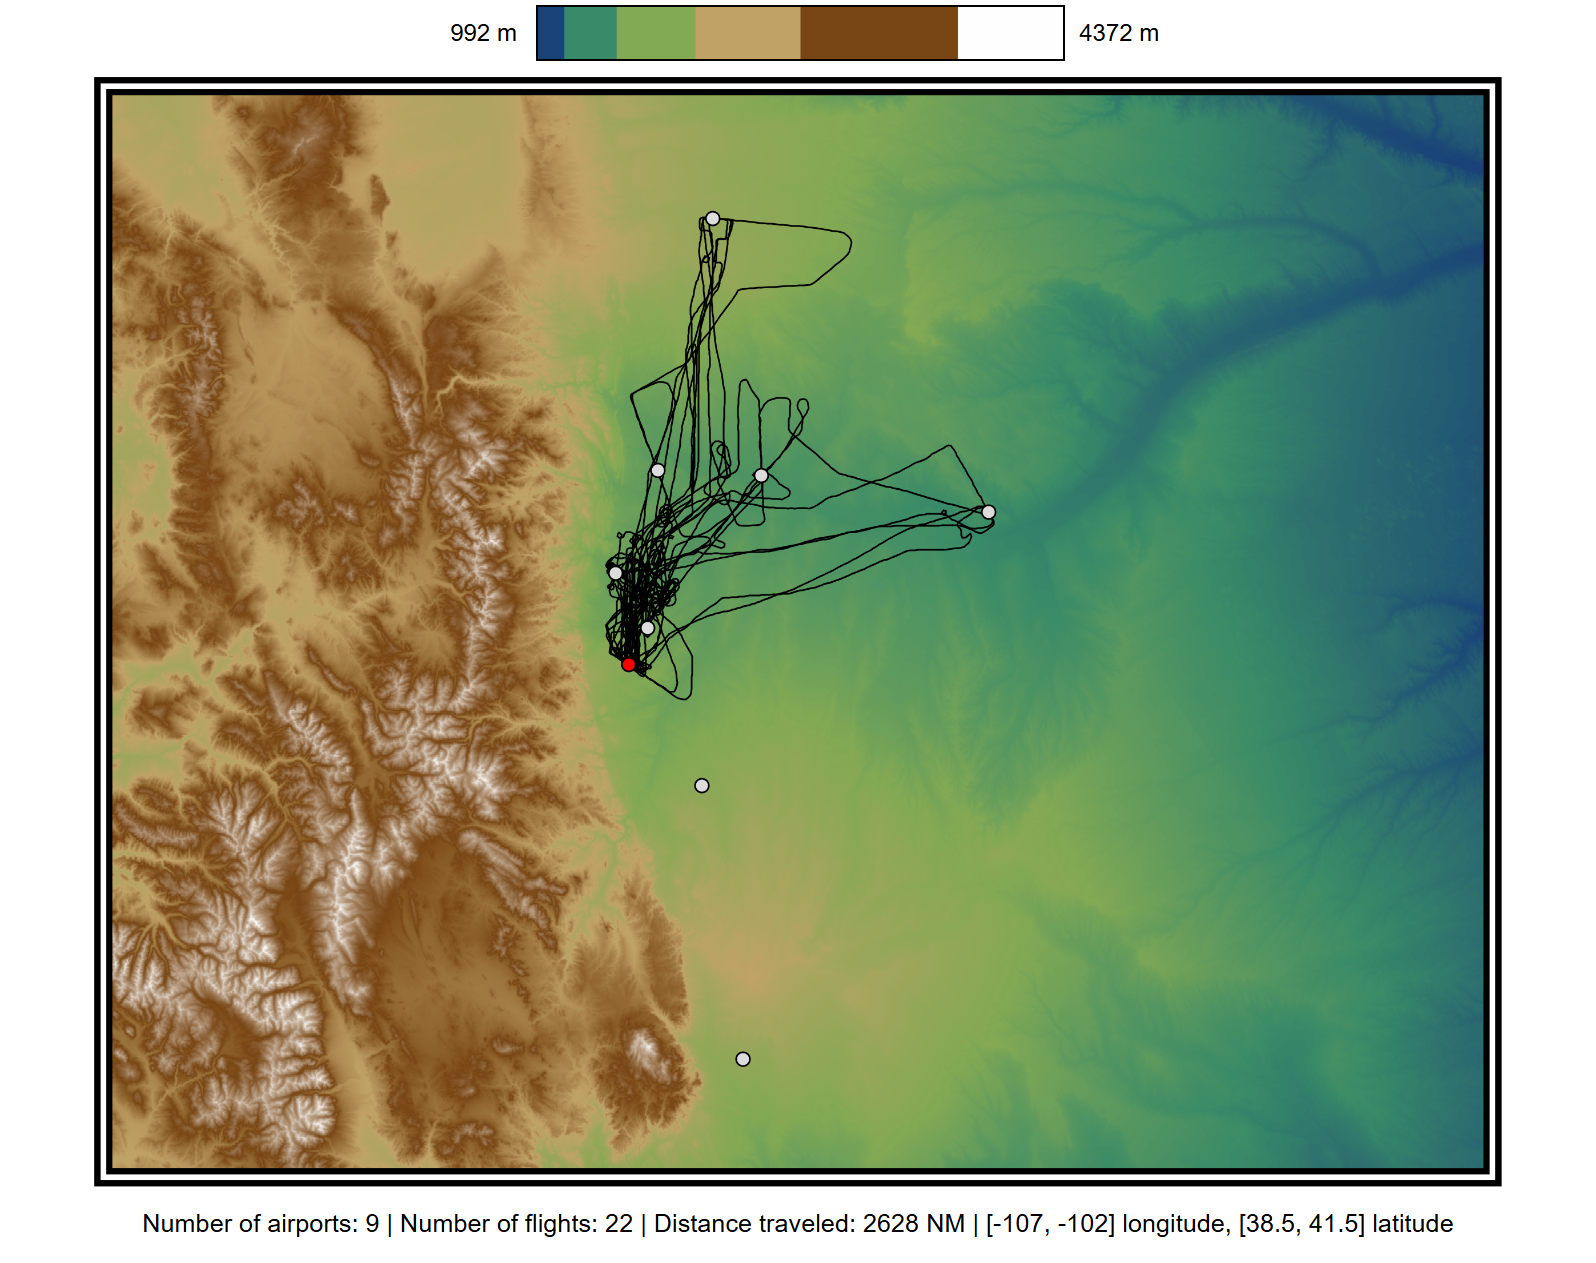
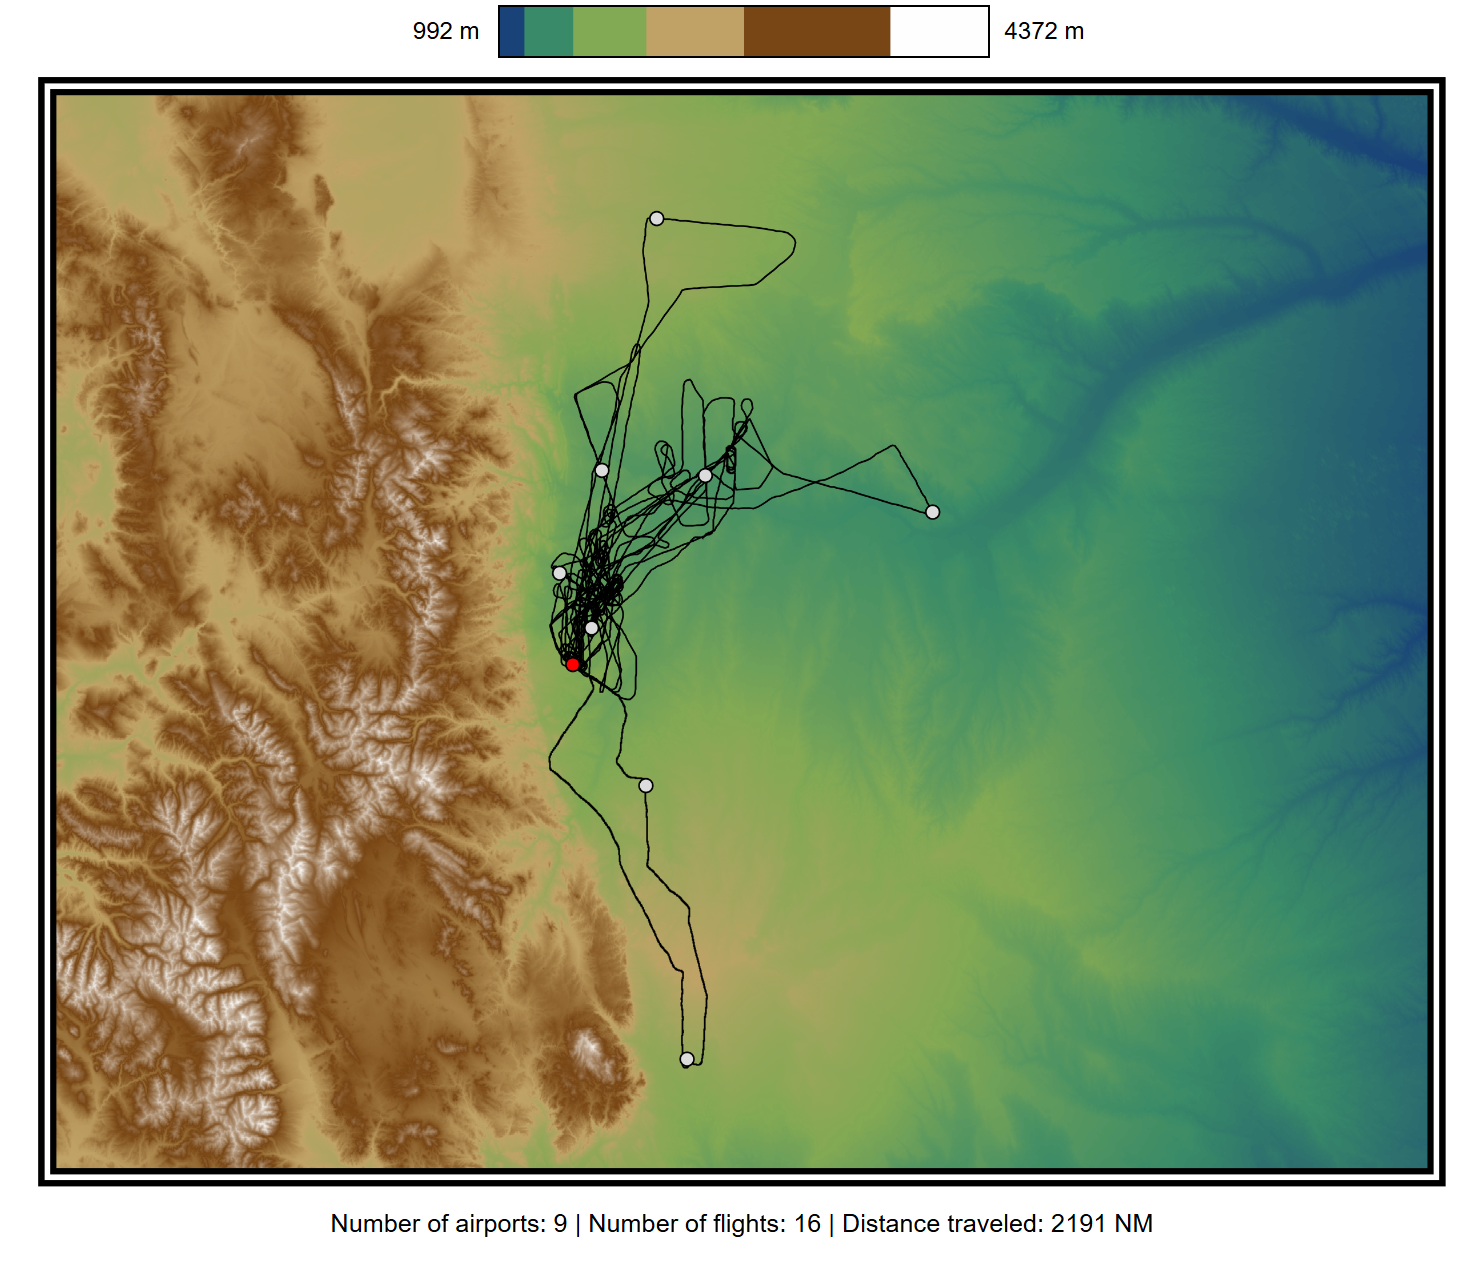
added ADS-B Exchange and ForeFlight files

diff --git a/_unfinished/flight-tracks/test.html b/_unfinished/flight-tracks/test.html
@@ -101,64 +101,75 @@
 	plot.height = height * parallel_scale;
 	const ctx = plot.getContext('2d');
 
-	let fnames = [
-		'01-Mar-2025 (KBJC-KBJC) - FlightAware.webarchive',
-		'03-May-2025 (KBJC-KBJC) - FlightAware.webarchive',
-		'04-Jul-2025 (KBJC-KBJC) - FlightAware.webarchive',
-		'04-Jun-2025 (KBJC-KBJC) - FlightAware.webarchive',
-		'05-Mar-2025 (KBJC-KBJC) - FlightAware.webarchive',
-		'06-Jun-2025 (KBJC-KBJC) - FlightAware.webarchive',
-		'07-Dec-2024 (KBJC-KBJC) - FlightAware.webarchive',
-		'07-Jun-2025 (KBJC-KBJC) - FlightAware.webarchive',
-		'08-Jan-2025 (KBJC-KBJC) - FlightAware.webarchive',
-		'08-Jun-2025 (KBJC-KBJC) - FlightAware.webarchive',
-		'08-Mar-2025 (KBJC-KBJC) - FlightAware.webarchive',
-		'08-May-2025 (KBJC-KBJC) - FlightAware.webarchive',
-		'09-Jul-2025 (KBJC-KBJC) - FlightAware.webarchive',
-		'10-May-2025 (KBJC-KFMM) - FlightAware.webarchive',
-		'10-May-2025 (KFMM-KBJC) - FlightAware.webarchive',
-		'11-Mar-2025 (KBJC-KBJC) - FlightAware.webarchive',
-		'13-Jul-2025 (KBJC-KBJC) - FlightAware.webarchive',
-		'19-Jun-2025 (KBJC-KBJC) - FlightAware.webarchive',
-		'23-Sep-2024 (KBJC-KBJC) - FlightAware.webarchive',
-		'27-Oct-2024 (KBJC-KBJC) - FlightAware.webarchive',
-		'28-Sep-2024 (KBJC-KBJC) - FlightAware.webarchive',
-		'29-May-2025 (KBJC-KBJC) - FlightAware.webarchive',
+	let fnames = [  // instructor: Sercan Gündoğdu, 16 flights, 30.4 hrs, 25 instrument approaches
+		'FlightAware/03-May-2025 (KBJC-KBJC) - FlightAware.webarchive',
+		'FlightAware/08-May-2025 (KBJC-KBJC) - FlightAware.webarchive',
+		'FlightAware/10-May-2025 (KBJC-KFMM) - FlightAware.webarchive',
+		'FlightAware/10-May-2025 (KFMM-KBJC) - FlightAware.webarchive',
+		'ADS-B Exchange/11-May-2025_N52160-track-EGM96.kml',
+		'FlightAware/29-May-2025 (KBJC-KBJC) - FlightAware.webarchive',
+		'FlightAware/04-Jun-2025 (KBJC-KBJC) - FlightAware.webarchive',
+		'FlightAware/06-Jun-2025 (KBJC-KBJC) - FlightAware.webarchive',
+		'FlightAware/07-Jun-2025 (KBJC-KBJC) - FlightAware.webarchive',
+		'FlightAware/08-Jun-2025 (KBJC-KBJC) - FlightAware.webarchive',
+		'ADS-B Exchange/18-Jun-2025_N736QG-track-EGM96.kml',
+		'FlightAware/19-Jun-2025 (KBJC-KBJC) - FlightAware.webarchive',
+		'FlightAware/04-Jul-2025 (KBJC-KBJC) - FlightAware.webarchive',
+		'ForeFlight/TrackLog_1E4D73CC-79A7-411F-8EE6-74FEA9598F3A.kml',  // 06-Jul-2025
+		'FlightAware/09-Jul-2025 (KBJC-KBJC) - FlightAware.webarchive',
+		'FlightAware/06-Aug-2025 (KBJC-KBJC) - FlightAware.webarchive',
+		'FlightAware/06-Aug-2025 (KBJC-KBJC) - FlightAware 2.webarchive',
 	];
-	
-	async function loadData(fnames) {
+
+	async function processData() {
 		let data = [];
 		for (fname of fnames) {
 			let response = await fetch('data/' + fname);
 			let file = await response.text();
-			data.push(file);
+			let flight = [];
+			if (fname.split('/')[0] == 'FlightAware') {
+				let table_indices = Array.from(file.matchAll(/<tr class="smallrow[1,2]"/g), (m) => m.index);
+				let tables = Array.from(table_indices, (m) => file.slice(m, file.indexOf('</tr>', m)));
+				let values = Array.from(tables, (t) => {
+					let value_indices = Array.from(t.matchAll(/<span/g), (m) => m.index);
+					return Array.from(value_indices, (v) => t.slice(t.indexOf('>', v)+1, t.indexOf('</span>', v)));
+				});
+				Array.from(values, (v) => {
+					flight.push([v[1], v[2], v[4]]);  // [time, lat, lon]
+				});
+			}
+			else if (fname.split('/')[0] == 'ADS-B Exchange') {
+				let table_indices = Array.from(file.matchAll(/<gx:coord >/g), (m) => m.index);
+				let tables = Array.from(table_indices, (m) => file.slice(m, file.indexOf('</gx:coord>', m)));
+				let values = Array.from(tables, (t) => {
+					return t.split('>')[1].split(' ');
+				});
+				Array.from(values, (v) => {
+					flight.push([null, v[1], v[0]]);  // [time, lat, lon]
+				});
+			}
+			else if (fname.split('/')[0] == 'ForeFlight') {
+				let table_indices = Array.from(file.matchAll(/<gx:coord>/g), (m) => m.index);
+				let tables = Array.from(table_indices, (m) => file.slice(m, file.indexOf('</gx:coord>', m)));
+				let values = Array.from(tables, (t) => {
+					return t.split('>')[1].split(' ');
+				});
+				Array.from(values, (v) => {
+					flight.push([null, v[1], v[0]]);  // [time, lat, lon]
+				});
+			}
+			else {
+				console.log('ERROR - File not recognized:', fname)
+			}
+			data.push(flight);
 		}
 		return data;
 	}
 
-	async function processData() {
-		let data = await loadData(fnames);
-		let output = [];
-		for (str of data) {
-			let flight = [];
-			let table_indices = Array.from(str.matchAll(/<tr class="smallrow[1,2]"/g), (m) => m.index);
-			let tables = Array.from(table_indices, (m) => str.slice(m, str.indexOf('</tr>', m)));
-			let values = Array.from(tables, (t) => {
-				let value_indices = Array.from(t.matchAll(/<span/g), (m) => m.index);
-				return Array.from(value_indices, (v) => t.slice(t.indexOf('>', v)+1, t.indexOf('</span>', v)));
-			});
-			Array.from(values, (v) => {
-				flight.push([v[1], v[2], v[4], v[6]]);  // [time, lat, lon, heading]
-			});
-			output.push(flight);
-		}
-		return output;
-	}
-
 	async function createTracks() {
-		let output = await processData();
+		let data = await processData();
 		let tracks = [];
-		for (flight of output) {
+		for (flight of data) {
 			let points = Array.from(flight, (f) => {
 				tracks_geojson.coordinates.push([parseFloat(f[2]), parseFloat(f[1])]);  // [lon, lat]
 				return [parseFloat(f[1]), parseFloat(f[2])];
@@ -227,11 +238,11 @@
 	
 	document.getElementById('caption').innerHTML += 'Number of airports: ' + airport_number;
 	document.getElementById('caption').innerHTML += ' | ';
-	document.getElementById('caption').innerHTML += 'Number of flights: ' + fnames.length;
+	document.getElementById('caption').innerHTML += 'Number of flights: ' + 16;//fnames.length;
 	document.getElementById('caption').innerHTML += ' | ';
 	document.getElementById('caption').innerHTML += 'Distance traveled: ' + Math.round(distance_traveled) + ' NM';
-	document.getElementById('caption').innerHTML += ' | ';
-	document.getElementById('caption').innerHTML += '[' + bbox[0] + ', ' + bbox[2] + '] longitude, [' + bbox[1] + ', ' + bbox[3] + '] latitude';
+	//document.getElementById('caption').innerHTML += ' | ';
+	//document.getElementById('caption').innerHTML += '[' + bbox[0] + ', ' + bbox[2] + '] longitude, [' + bbox[1] + ', ' + bbox[3] + '] latitude';
 
 })();
 
